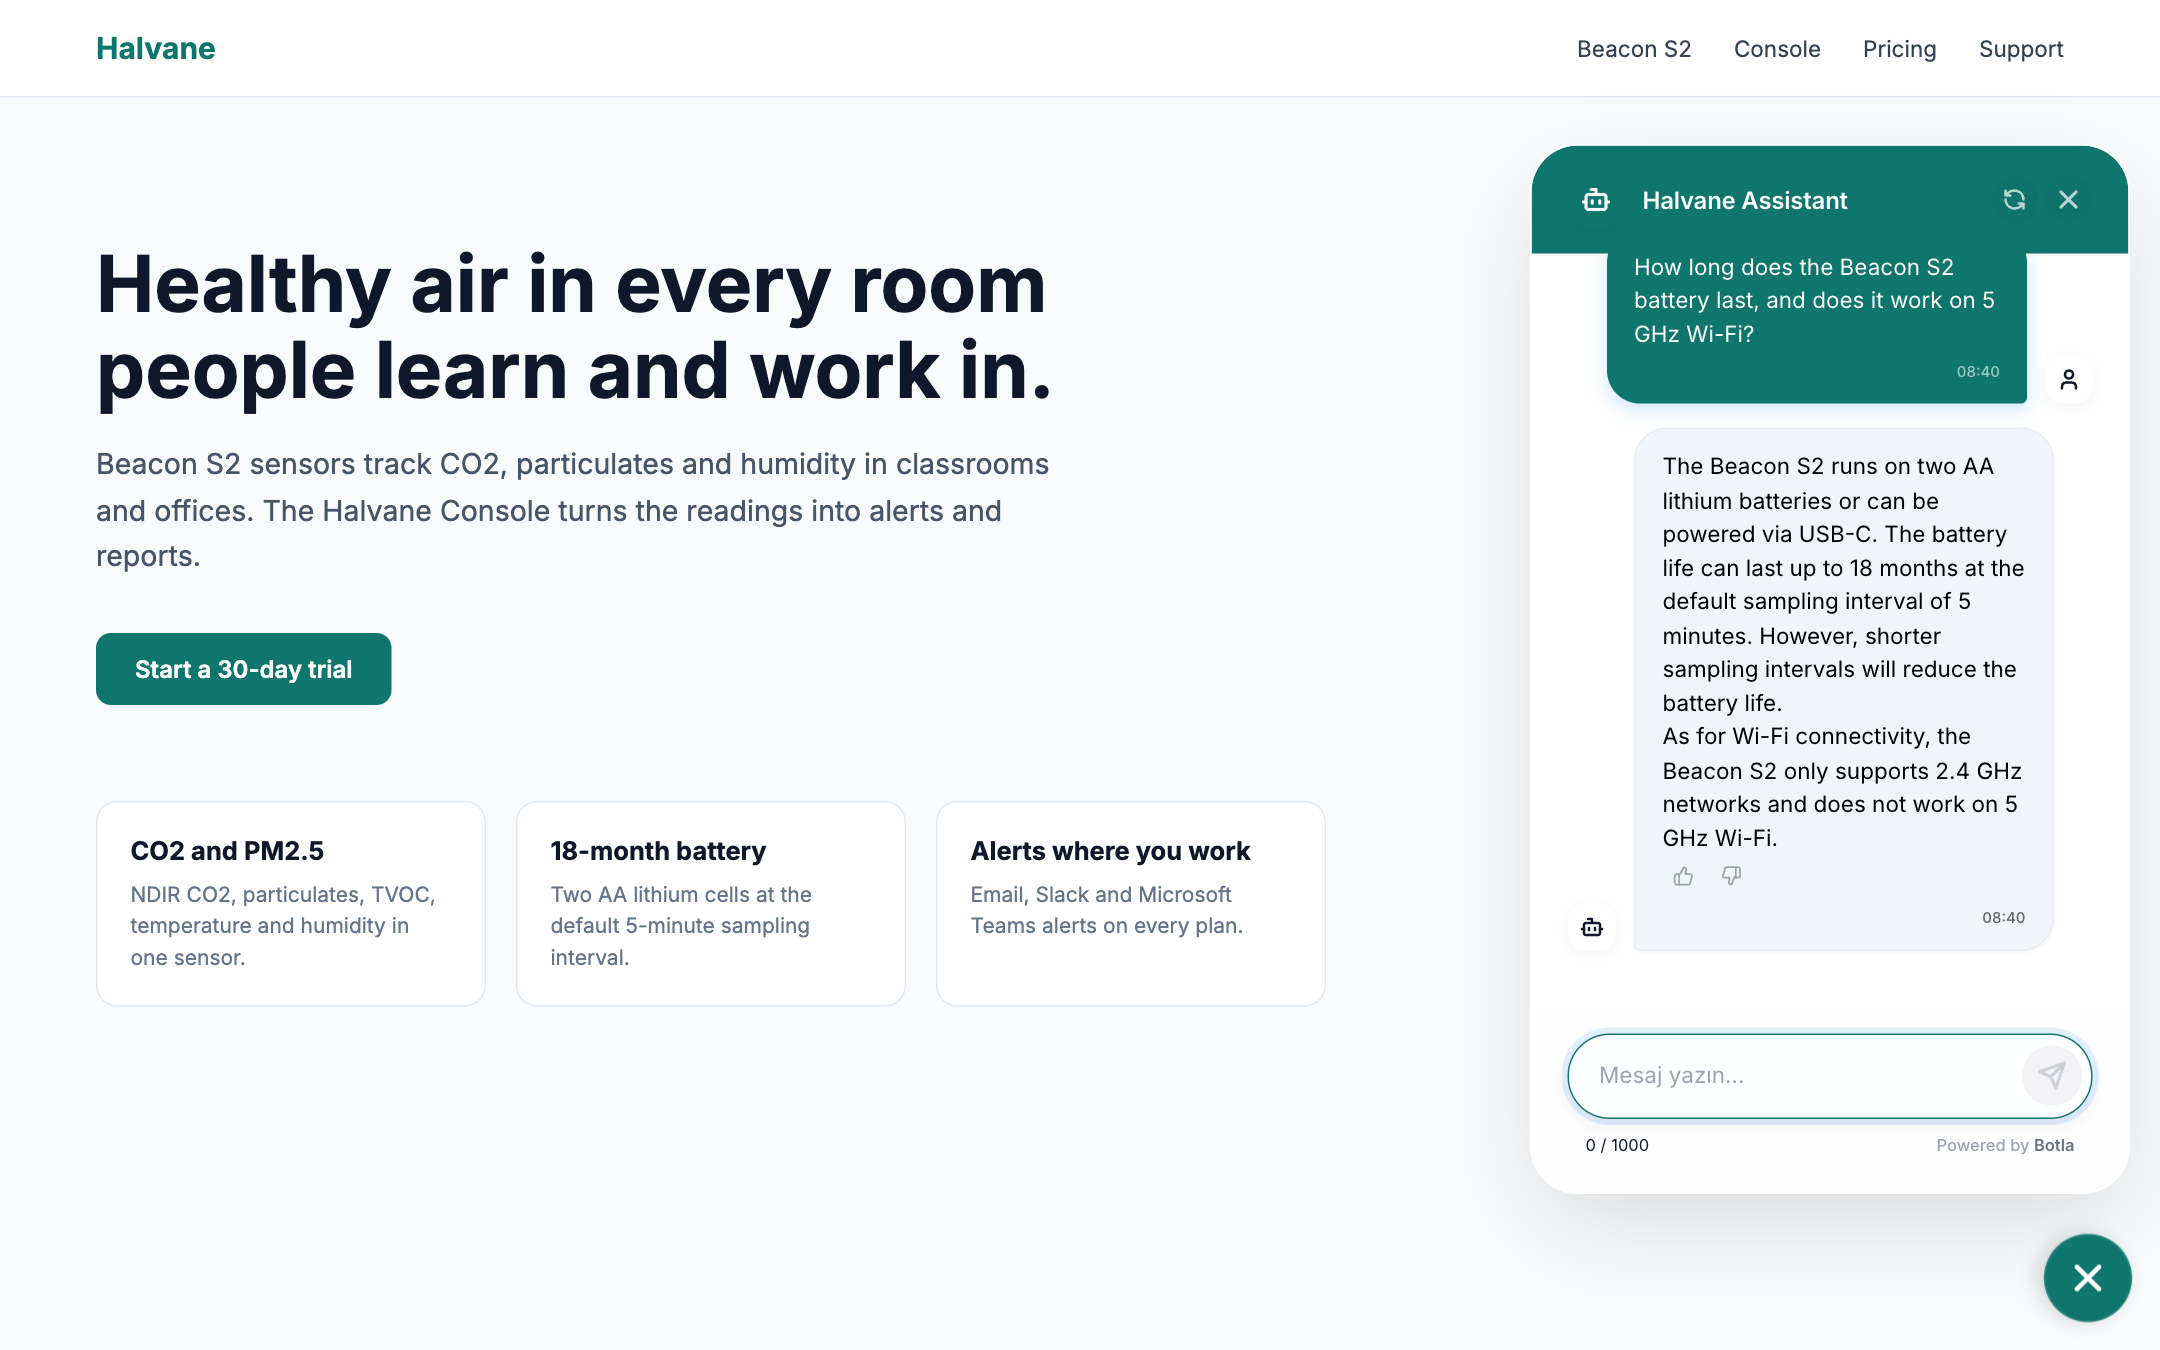
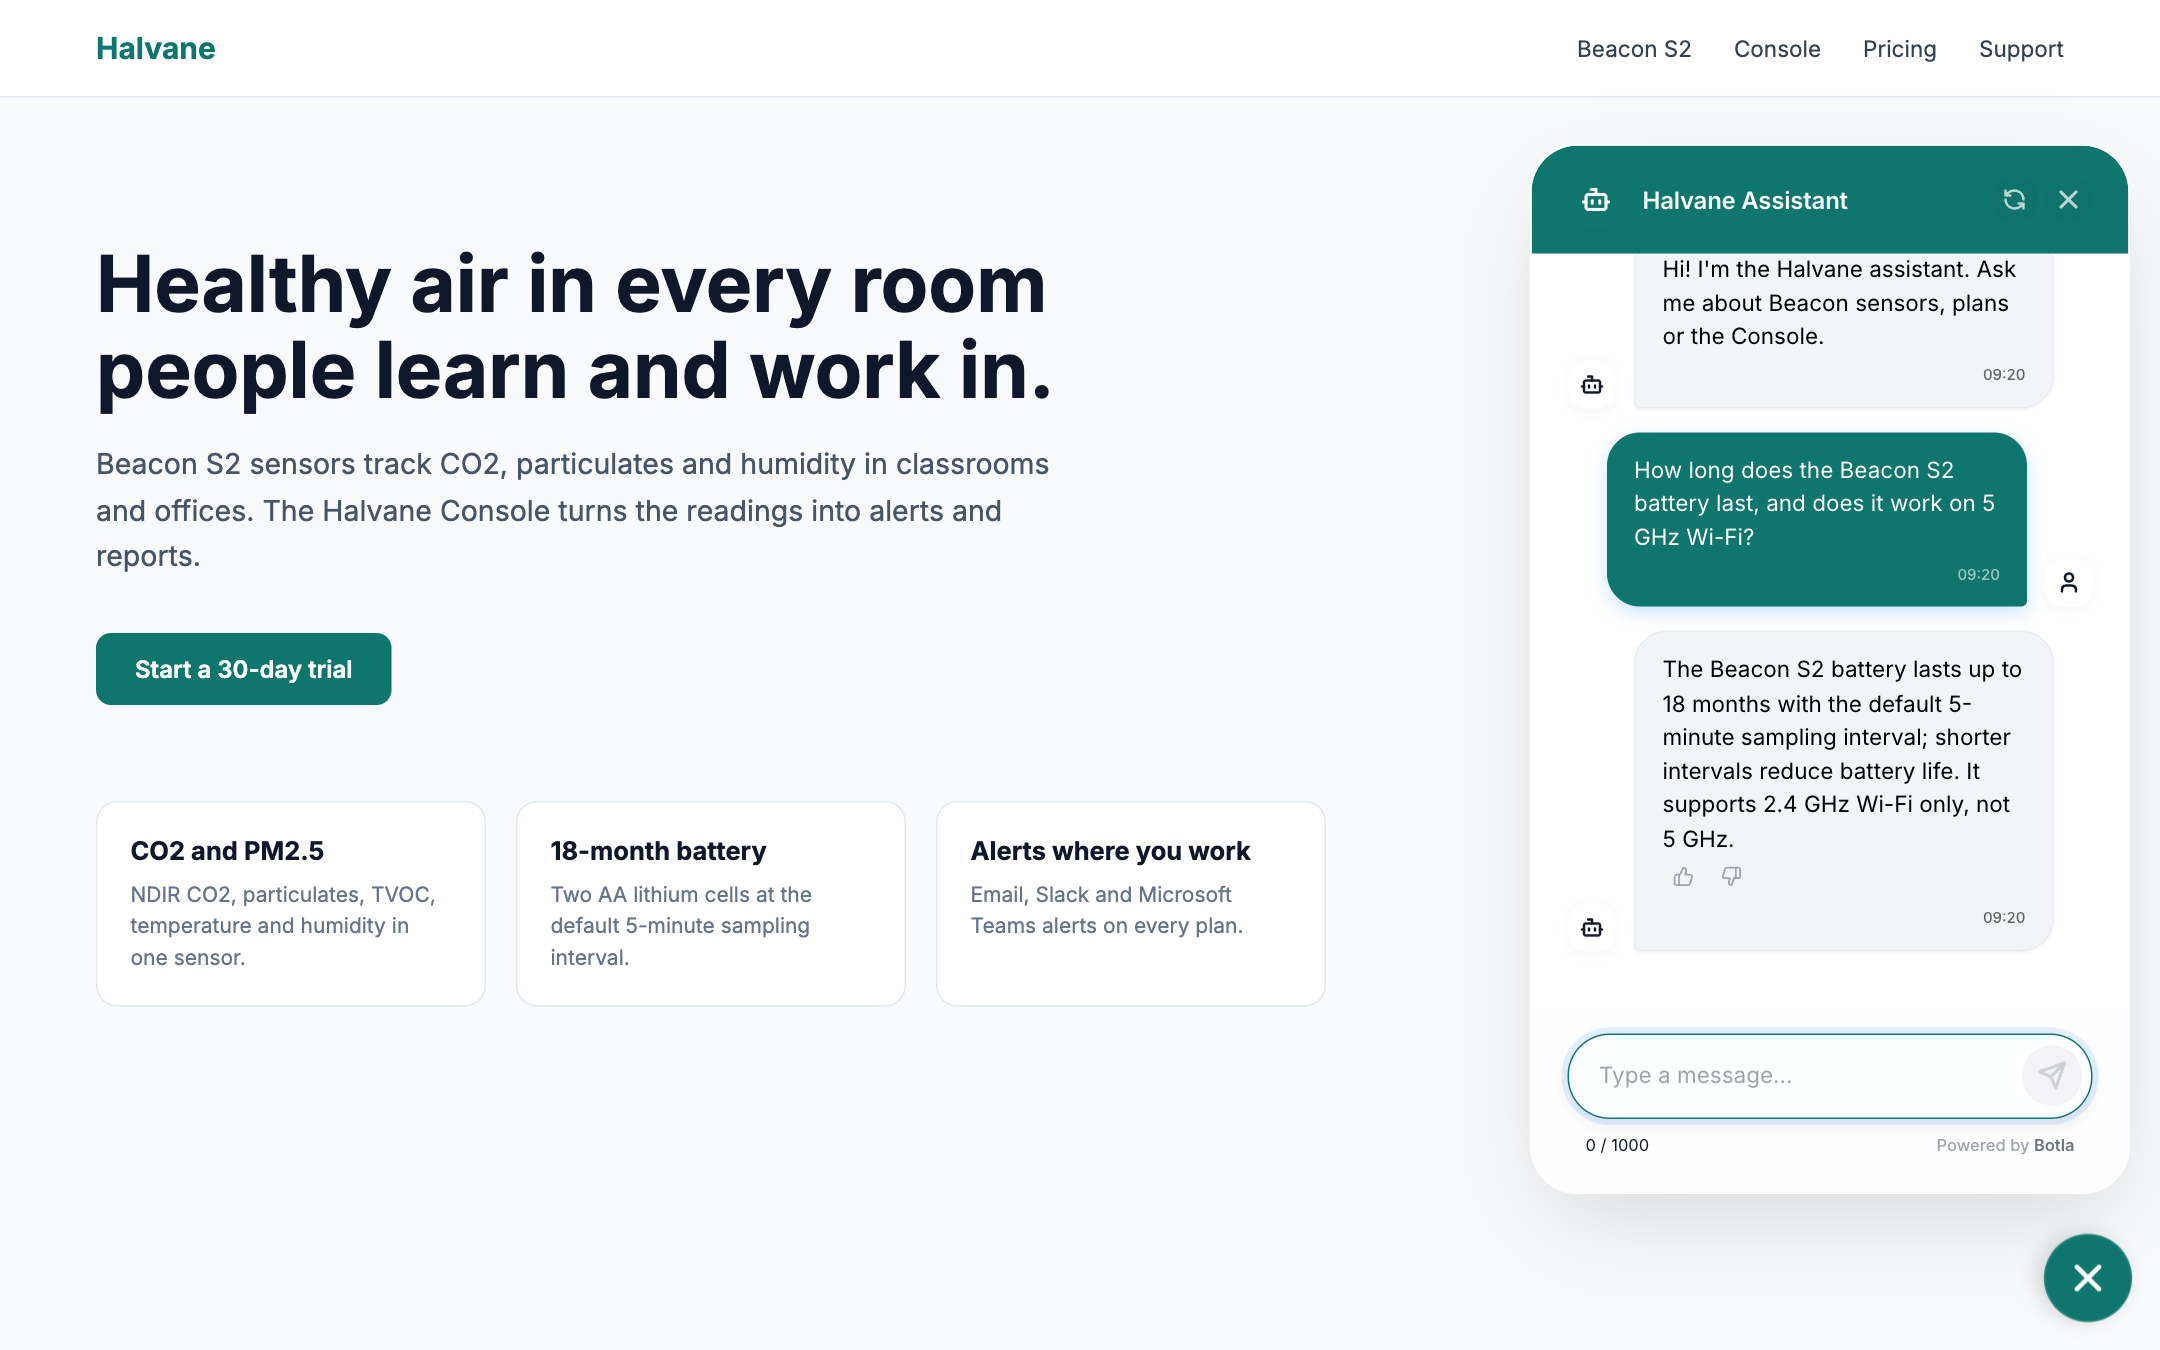
docs: retake widget screenshots with GPT-6 Luna and English widget UI
The widget now follows the bot's language, so the English demo bot shows
English UI strings. The README explains the Turkish-first dashboard, and
SHOTS lets the capture script retake a subset of the images.

Changed region(s): [[0.7444, 0.1867, 0.9616, 0.6533], [0.7444, 0.7778, 0.8065, 0.8089]]

diff --git a/scripts/demo/screenshots.spec.ts b/scripts/demo/screenshots.spec.ts
@@ -15,7 +15,11 @@ const QUIET_CSS = `
   [data-sonner-toaster], [role="status"][aria-live], vite-error-overlay { display: none !important; }
 `
 
+// SHOTS=03,04 retakes only the screenshots whose names start with those prefixes.
+const ONLY = process.env.SHOTS?.split(',').filter(Boolean)
+
 async function shoot(page: Page, name: string) {
+  if (ONLY && !ONLY.some((p) => name.startsWith(p))) return
   await page.addStyleTag({ content: QUIET_CSS })
   await page.waitForLoadState('networkidle')
   await page.waitForTimeout(800)

diff --git a/README.md b/README.md
@@ -43,7 +43,9 @@ Botla is a multi-tenant RAG chatbot platform. It crawls and extracts your conten
   </tr>
 </table>
 
-The dashboard UI is in Turkish. The demo data is fictional; `make screenshots` regenerates these images (see [CONTRIBUTING.md](CONTRIBUTING.md#readme-screenshots)).
+**Built for the Turkish market.** The dashboard is Turkish-first by design: a Turkish UI, Turkish-trained sentence segmentation for chunking, and KVKK data export and deletion. Each chatbot still has its own language (Turkish or English), and the widget's UI follows it, as in the English demo bot above.
+
+The demo data is fictional; `make screenshots` regenerates these images (see [CONTRIBUTING.md](CONTRIBUTING.md#readme-screenshots)).
 
 ## Architecture
 
